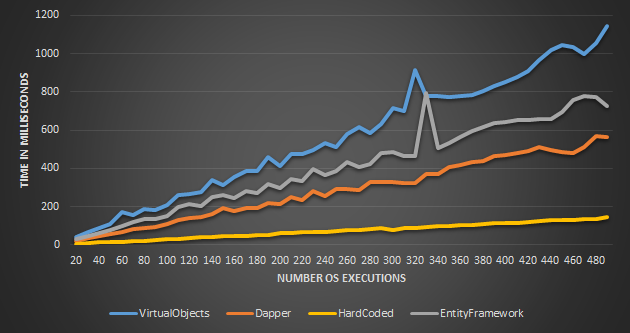
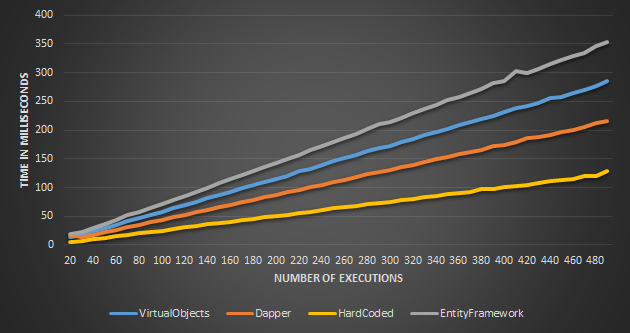
Performance Analysis after changing the way dynamics are mapped

diff --git a/VirtualObjects.Tests/Sessions/PerformanceCheck.cs b/VirtualObjects.Tests/Sessions/PerformanceCheck.cs
@@ -40,8 +40,9 @@ namespace VirtualObjects.Tests.Sessions
         public class MappingSuppliers : PerfRecord { }
 
         public class MappingOrderDetails : PerfRecord { }
-
-
+        
+        public class MappingDynamicSuppliers : PerfRecord { }
+                  
         [VirtualObjects.Mappings.Table(TableName = "Order Details")]
         public class OrderDetails
         {
@@ -301,7 +302,7 @@ namespace VirtualObjects.Tests.Sessions
                         Connection.Close();
                     }, name: STR_HardCoded);
 
-                    session.Insert(new MappingSuppliers
+                    session.Insert(new MappingDynamicSuppliers
                     {
                         NumberOfExecutions = numberOfExecutions,
                         EntityFramework = (float)Diagnostic.GetMilliseconds(STR_EntityFramework),
@@ -314,7 +315,7 @@ namespace VirtualObjects.Tests.Sessions
             }
         }
 
-        //[Test]
+        [Test]
         public void Performance_Check_OrderDetailsMapping()
         {
             var ef = new EFContext((DbConnection)Connection);
